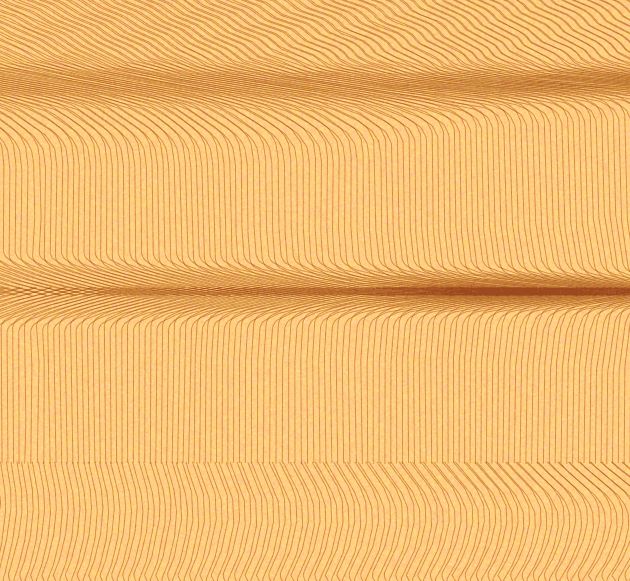
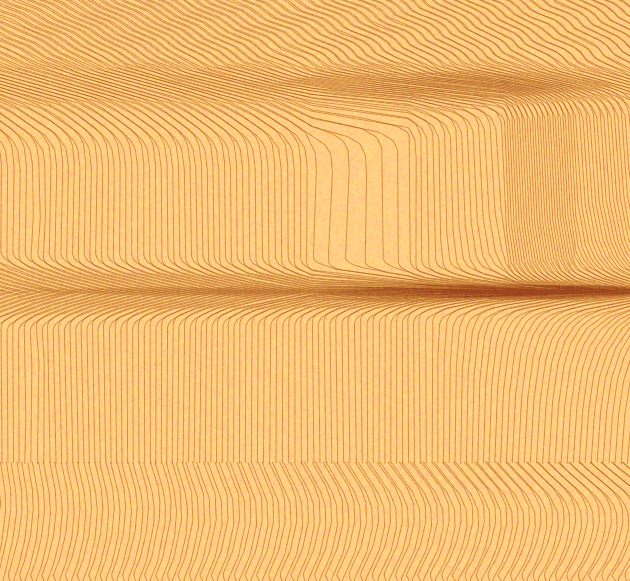
cp-eras-ui: veneer, the store card's streak is a spindle and its sweep sits right of centre
Mapped on the reference: left of x ~490 the streak is a knee and a
lattice of the two crossing leaves; from x ~470 it is a spindle core,
thickest at x 490-550 and thinning to the edge, with the lines right of
x ~500 curving in over a long run that rises toward the edge. A new
spindle term gathers lines into the seam; the streak is three terms on
both leaves. The upper sweep is strongest right of centre and gone at
the edge. Still short: the core is lighter than the reference's and
starts ~20 px early, the left lattice is a little weaker, and a lighter
patch under the sweep has a boxy left edge. The other five textures are
byte-identical. Golden follows.

Changed region(s): [[0.0, 0.0, 1.0, 0.8055]]

diff --git a/home/common/pkgs/cp-eras-ui/scripts/make-veneer.py b/home/common/pkgs/cp-eras-ui/scripts/make-veneer.py
@@ -26,7 +26,8 @@ drawn with the *line, ground and grain* measured for the blend generator.
    `accel` -- the run into a streak, crossing the axis), `ramp` (a band
    between two curves across which the lines step sideways: the panel's
    sweep and crease), `fold` (a ridge), `shear` (lean off an edge),
-   `ripple` (zigzag), `knot`. Amounts and curves may be piecewise linear
+   `ripple` (zigzag), `knot`, `spindle` (lines gathered into a seam:
+   the store streak's core and run-in). Amounts and curves may be piecewise linear
    across the grain ([(s, value), ...]). A family may also be cut to a
    strip across the grain (`swindow`); its lines end at the cut, a jog.
    With `trim` its lines end exactly on its box, so two strips whose
@@ -91,14 +92,31 @@ SPACING = dict(amp=0.0, cell=6.0, along=150.0)
 QUANT = dict(step=30.0, hyst=3.0, tol=0.5, radius=9.5)
 CORE = (150.0, 61.0, 30.0)   # the store streak core, darkest compounded ink
 
-# The store streak (2026-11-15 refit): the lean's acceleration and the
-# core bend peak at s ~208-235 (native crop x 500-565) and ease off at the
-# right edge, so the core is darkest mid-card and thins to the right, as
-# the reference's spindle does (it was thickest at the edge).
-STREAK_LEAN = dict(kind='lean', ts=(110.0, 115.5), w=1.2, amount=(-2.8, -3.0),
-                   accel=[(0.0, 0.0), (150.0, -0.45), (208.0, -1.6), (235.0, -1.6), (262.0, -1.3)])
-STREAK_BEND = dict(kind='bend', ts=121.46, w=16.0, p=2.0,
-                   amount=[(0.0, 0.0), (200.0, -3.0), (235.0, -4.0), (262.0, -3.5)])
+# The store streak (2026-11-16 veneer pass). Mapped on the reference:
+# left of native x ~490 each leaf's lines knee sharply at y ~258-268 and
+# run down at 15-30 deg from horizontal into a lattice band (x 300-430:
+# G < 140 over 25-34 rows, no core); from x ~470 a dark spindle core
+# grows (G < 80 over 10 rows at x 490-550) and thins to 4 at the right
+# edge, while the run-in rises: right of x 500 the lines start curving at
+# y 250 (x 525) to 232 (x 600), a long curve rather than a knee. Now:
+# STREAK_LEAN (the knee and lattice run; twin-shifted, so the combs knee
+# on alternate rows, the reference's 7/4 gaps), STREAK_LEAN_FIXED (the
+# part that tapers out to the right; `fixed`, the same for both combs: a
+# twin-shifted taper beat the combs into pairs), and STREAK_SPINDLE: a
+# sech^2 core whose area peaks at s 215 (native x 516) and falls towards
+# the edge, which thins it, plus a wide Lorentzian part right of s 175
+# whose long run-in raises the knees towards the right edge.
+STREAK_TS = [(0.0, 110.0), (262.0, 115.5)]
+STREAK_LEAN = dict(kind='lean', ts=STREAK_TS, w=1.2, amount=-2.0)
+STREAK_LEAN_FIXED = dict(kind='lean', fixed=True, ts=STREAK_TS, w=1.2,
+                         amount=[(0.0, -0.8), (170.0, -0.9), (235.0, 0.0)],
+                         accel=[(0.0, 0.0), (120.0, -0.4), (160.0, -0.4), (185.0, -0.15), (205.0, 0.0)])
+STREAK_SPINDLE = dict(kind='spindle', seam=121.46, past=1.0, carry=0.1, parts=[
+    ([(130.0, 0.0), (215.0, 75.0), (240.0, 60.0), (262.0, 25.0)],
+     [(0.0, 4.0), (170.0, 3.0), (200.0, 2.0), (220.0, 1.8), (262.0, 1.0)], 'sech'),
+    ([(175.0, 0.0), (262.0, 30.0)], [(0.0, 6.0), (262.0, 9.0)]),
+])
+STREAK = [STREAK_LEAN, STREAK_LEAN_FIXED, STREAK_SPINDLE]
 
 # The EMAIL card (2026-11-15 second refinement). LEAN_L is the lower leaf's
 # lean in its mirrored coordinates; the two are not symmetric, so the
@@ -188,8 +206,12 @@ PANEL_UNDER_R = dict(kind='ramp', k=3.0, a=PANEL_UNDER, b=[(s, t + 62.5) for s, 
 # the edge (TOP_KNEE). The old shear at t 34 plus a bend at t 42 drew a
 # zigzag that leaned only ~60 deg and curved the wrong way at the right.
 TOP_EDGE = [(0.0, 102 / R), (170.0, 100 / R), (262.1, 88 / R)]
+# The sweep's amount is weighted to native x 400-500 (2026-11-16): the
+# reference's band is darkest there (mean G of its darkest 10 rows 143-150,
+# 166-170 left of x 400, 184-193 at the right edge, where ours was 131).
 TOP_SWEEP = dict(kind='ramp', k=2.0, a=[(0.0, 70 / R), (262.1, 78 / R)], b=TOP_EDGE,
-                 amount=[(0.0, -75.0), (262.1, -75.0)])
+                 amount=[(0.0, -45.0), (130.0, -50.0), (170.0, -75.0), (210.0, -75.0), (240.0, -35.0),
+                         (262.0, -20.0)])
 TOP_KNEE = dict(kind='ramp', k=3.0, a=TOP_EDGE,
                 b=[(83.0, 140 / R), (140.0, 136 / R), (181.0, 120 / R), (202.0, 106 / R), (233.0, 99 / R),
                    (262.1, 95 / R)],
@@ -209,12 +231,12 @@ SURFACES = {
         wave=dict(amp=2.0, along=150.0, across=40.0),
         kinks=dict(n=10, amp=1.4, rs=(3.0, 8.0), rt=(5.0, 14.0)),
         families=[
-            dict(window=(None, 123.0), terms=[
+            dict(window=(None, 121.46 + 2.5), fade=(0.0, 3.5), terms=[
                 dict(kind='shear', ts=29.0, w=4.0, amount=(2.0, 1.5)),
                 dict(kind='ripple', ts=32.0, w=4.0, amount=1.8, wavelength=(14.0, 45.0)),
-                TOP_SWEEP, TOP_KNEE, STREAK_LEAN, STREAK_BEND,
-            ]),
-            dict(mirror=121.46, window=(119.9, 192.6), terms=[STREAK_LEAN, STREAK_BEND]),
+                TOP_SWEEP, TOP_KNEE,
+            ] + STREAK),
+            dict(mirror=121.46, window=(121.46 - 2.5, 192.6), fade=(3.5, 0.0), terms=STREAK),
             dict(window=(192.6, None), terms=[
                 dict(kind='bend', ts=192.6, w=16.0, c=0.3, amount=(4.0, 26.0), power=1.5, real=True),
                 dict(kind='bend', ts=241.7, w=18.0, amount=(8.0, 14.0), real=True),
@@ -507,6 +529,28 @@ def family_phi(surf, fam, s, t):
             if 'accel' in term:
                 lean = lean + across(s, S, term['accel'], term.get('accel_power', 1.0)) * d * d / 2.0
             phi = phi + lean
+        elif kind == 'spindle':
+            # Lines gathered into a seam: dphi/dt = -sum (area / u0) * K(u /
+            # u0), u = t - seam, each part's area and u0 piecewise across
+            # the grain; K is a Lorentzian (a long gentle run-in) or, with
+            # 'sech', sech^2 (vertical until close, then a hard turn). The
+            # shift on the seam is area * pi / 2 (Lorentzian) or area, so
+            # narrowing u0 sharpens the core without the shift growing
+            # across the grain, which would make phi non-monotone (lines
+            # hairpin). Past the seam u0 is the constant `past` (a u0
+            # varying across the grain folds the lines there) and the
+            # shift added is scaled by `carry`: there it counts double.
+            # `seam` is not a `ts`, so the twin comb is not moved: both
+            # combs gather into one core, evenly interleaved.
+            u = tt - term['seam']
+            for part in term['parts']:
+                area, u0 = pw(s, part[0]), pw(s, part[1])
+                u0 = np.where(u > 0, term.get('past', u0), u0)
+                g = np.where(u > 0, term.get('carry', 1.0), 1.0)
+                if len(part) > 2 and part[2] == 'sech':
+                    phi = phi - area * (g * np.tanh(u / u0) + 1.0)
+                else:
+                    phi = phi - area * (g * np.arctan(u / u0) + np.pi / 2)
         elif kind == 'ripple':
             # Cathedral zigzag: a sideways wave along the grain, on the
             # side t < ts (soft edge `w`), its phase drifting across it.
@@ -551,6 +595,8 @@ def phi_at(surf, fam, s, t, twin):
 
 
 def shifted(term, dt):
+    if term.get('fixed'):
+        return term   # the same for both combs, so they stay interleaved
     term = dict(term)
     if isinstance(term.get('ts'), list):
         term['ts'] = [(x, v + dt) for x, v in term['ts']]

diff --git a/home/common/pkgs/cp-eras-ui/docs/neokitsch/veneer-texture.md b/home/common/pkgs/cp-eras-ui/docs/neokitsch/veneer-texture.md
@@ -477,6 +477,96 @@ the reference's leans. The SMG middle is ~7 G levels darker than the
 reference's (its 2.4-texel pitch with the measured single line), and its
 lower seam's chevrons are steeper than the reference's at rows 53-61.
 
+### Sixth refinement (2026-11-16): the store card's main streak
+
+One surface refit (`store-card.png`); the other five PNGs are
+byte-identical (sha256 checked). Generator changes, none of which alters
+a surface that does not use them:
+
+- New term `spindle`: lines gathered into a seam, `dphi/dt = -sum (area /
+  u0) K((t - seam) / u0)` per part, `area` and `u0` piecewise across the
+  grain, `K` a Lorentzian (a long gentle run-in) or, with `'sech'` as a
+  part's third element, sech^2 (vertical until close, then a hard turn).
+  The shift on the seam is `area * pi / 2` (Lorentzian) or `area` (sech),
+  so narrowing `u0` at a constant area sharpens the core without the
+  shift growing across the grain. Past the seam `u0` is the constant
+  `past` and the added shift is scaled by `carry` (a `u0` varying across
+  the grain there, or the full shift, folds the lines). The seam is
+  `seam`, not `ts`, so the twin comb is not moved.
+- A term marked `fixed` is the same for both combs (`shifted` leaves
+  it). A twin-shifted lean whose amount *tapers* across the grain beats
+  the two combs in and out of phase: they pair up into doubled lines
+  where the offset passes half a pitch.
+
+**What the reference's streak is** (native 4K crop, text masked;
+structure tensor sigma 3 for angles, per-column counts for darkness):
+
+- *Left of native x ~490: a knee and a lattice.* Lines are vertical to a
+  sharp knee row at y ~258 (x 250) to ~266 (x 450), the row converging
+  slightly on the axis to the right (lower knee mirrored, 325 to 316).
+  Past it they run down at 15-30 deg from horizontal and the two leaves
+  cross in a band y ~277-307 whose edges are darker (lines flattening)
+  and whose middle is light diamonds: G < 140 over 13-34 rows, no pixel
+  under G 80, darkest rows at 298-304, not on the axis. Further left
+  (x < 125, under the text) the band is wider (y 255-330) and the lines
+  cross steeper.
+- *From x ~470: a spindle.* A dark core grows on the axis (G < 80 rows at
+  x 450 / 470 / 490 / 510 / 530 / 550 / 570 / 590 / 610: 1 4 10 9 10 9
+  6 5 4; minimum G 57-64), thickest at x 490-550, thinning to the edge.
+- *The run-in rises.* Right of x ~500 the lines no longer knee: they
+  curve over a long distance, starting at y 250 (x 525), 244 (550), 232
+  (575-600), angle -6 / -21 / -37 / -51 per 6 rows at x 525, mirrored
+  below to y ~352. The change at x ~490-500 is continuous (no strip cut)
+  but abrupt, and reads as a vertical seam in the reference.
+- *Upper sweep.* Darkest 10-row band in rows 55-115 per 50-px column
+  (mean G): 168 170 169 166 166 170 169 167 150 143 161 184 193 -- it is
+  strongest at x 400-500 and gone at the right edge.
+
+**Now.** The streak is `STREAK = [STREAK_LEAN, STREAK_LEAN_FIXED,
+STREAK_SPINDLE]` on both leaves (`STREAK_BEND` and the old accelerating
+lean are gone), the leaves overlap 2.5 px past the axis each way and fade
+over 3.5 (`window` 121.46 +- 2.5, `fade`):
+
+- `STREAK_LEAN` (twin-shifted, so the knees alternate: the reference's
+  7/4 gaps under the lower knee row): ts 110 / 115.5 at s 0 / 262, w 1.2,
+  amount -2.0.
+- `STREAK_LEAN_FIXED` (same ts): amount -0.8 / -0.9 / 0 at s 0 / 170 /
+  235, accel 0 / -0.4 / -0.4 / -0.15 / 0 at s 0 / 120 / 160 / 185 / 205.
+- `STREAK_SPINDLE`, seam 121.46, past 1.0, carry 0.1: a sech part of area
+  0 / 75 / 60 / 25 at s 130 / 215 / 240 / 262 and u0 4 / 3 / 2 / 1.8 / 1.0
+  at s 0 / 170 / 200 / 220 / 262 (the core; its area falling to the
+  right is what thins it, lines leaving it past the seam), and a
+  Lorentzian part of area 0 / 30 at s 175 / 262, u0 6 / 9 (the long
+  run-in: the rising knees, without widening the G < 140 band, which a
+  lean starting higher did).
+- `TOP_SWEEP` amount -45 / -50 / -75 / -75 / -35 / -20 at s 0 / 130 /
+  170 / 210 / 240 / 262 (was -75 throughout). The shear, ripple
+  (zigzag) and `TOP_KNEE` are unchanged.
+
+Numbers (native 4K crop; reference / committed / now). Pixels per column
+with G < 80 (G < 140), rows 240-345, x 200 / 300 / 400 / 500 / 540 / 600
+/ 620: 3(10) 0(13) 0(25) 7(22) 9(19) 4(25) 3(30) / 0(9) 0(14) 1(19)
+6(27) 7(23) 5(22) 3(22) / 0(11) 0(14) 0(23) 5(22) 6(22) 4(22) 2(20).
+G < 80 at x 450 ... 610 step 20: 1 4 10 9 10 9 6 5 4 / 5 7 7 7 7 7 7 7 4
+/ 5 4 6 8 7 6 8 5 3. Mean angle error (deg) / mean G, text masked: rows
+0-170 19.1 / 19.3, G 184.1 / 180.5 / 182.8; rows 170-250 3.0 / 3.3;
+streak left (rows 250-335, x 150-450) 7.0 / 8.2, G 176.8 / 174.5 /
+178.2; streak right (rows 225-360, x 450-629) 12.0 / 10.3, G 171.6 /
+175.5 / 175.9; rows 360-460 13.9 / 14.2. Upper sweep, darkest band per
+50-px column: committed 152 152 152 151 151 147 148 147 142 140 132 133
+130; now 172 172 169 168 168 165 157 152 145 140 138 154 168.
+
+Still wrong after it: the core peaks at 7-8 rows of G < 80 where the
+reference's reaches 10 (its minimum G is 57-64, ours 73: our compounded
+ink stops short of the floor), and it starts ~20 px early (5 rows at x
+450 against 1); the left lattice band is a little lighter and narrower
+than the reference's, with no darker band edges; the right-hand run-in
+is a smooth fan where the reference's begins abruptly at x ~490 (and
+there carries a vertical seam down the card, which ours has only above
+the streak, where the weighted sweep leaves a lighter vertical patch at
+native x 500-629, y 110-200 that reads as a box edge at 1600x900); the
+top zigzag was not revisited.
+
 ## Surfaces
 
 | Texture | Surface | Design box | Texels |
